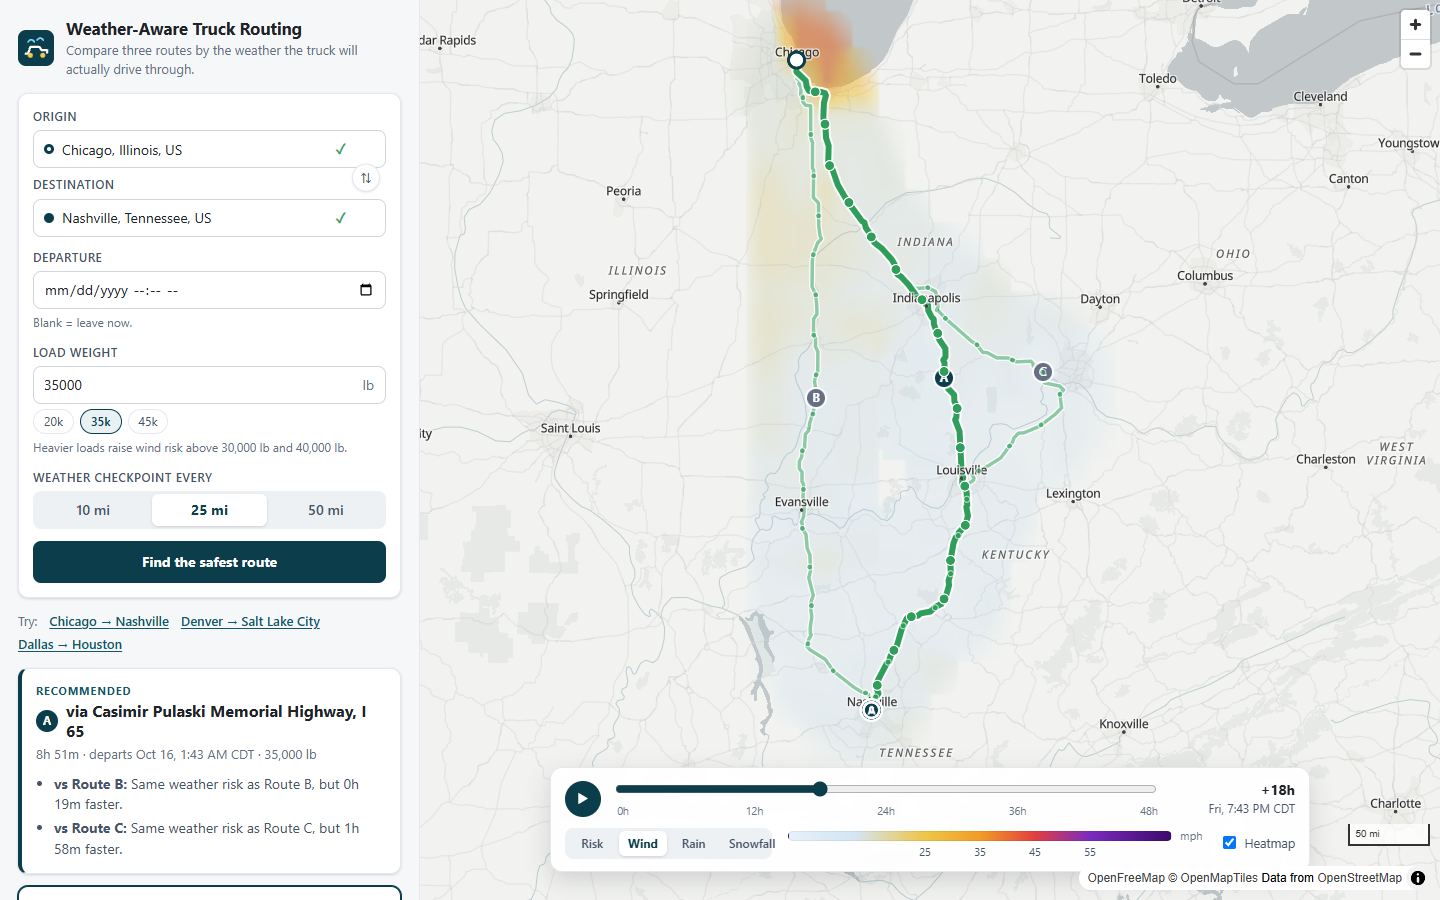
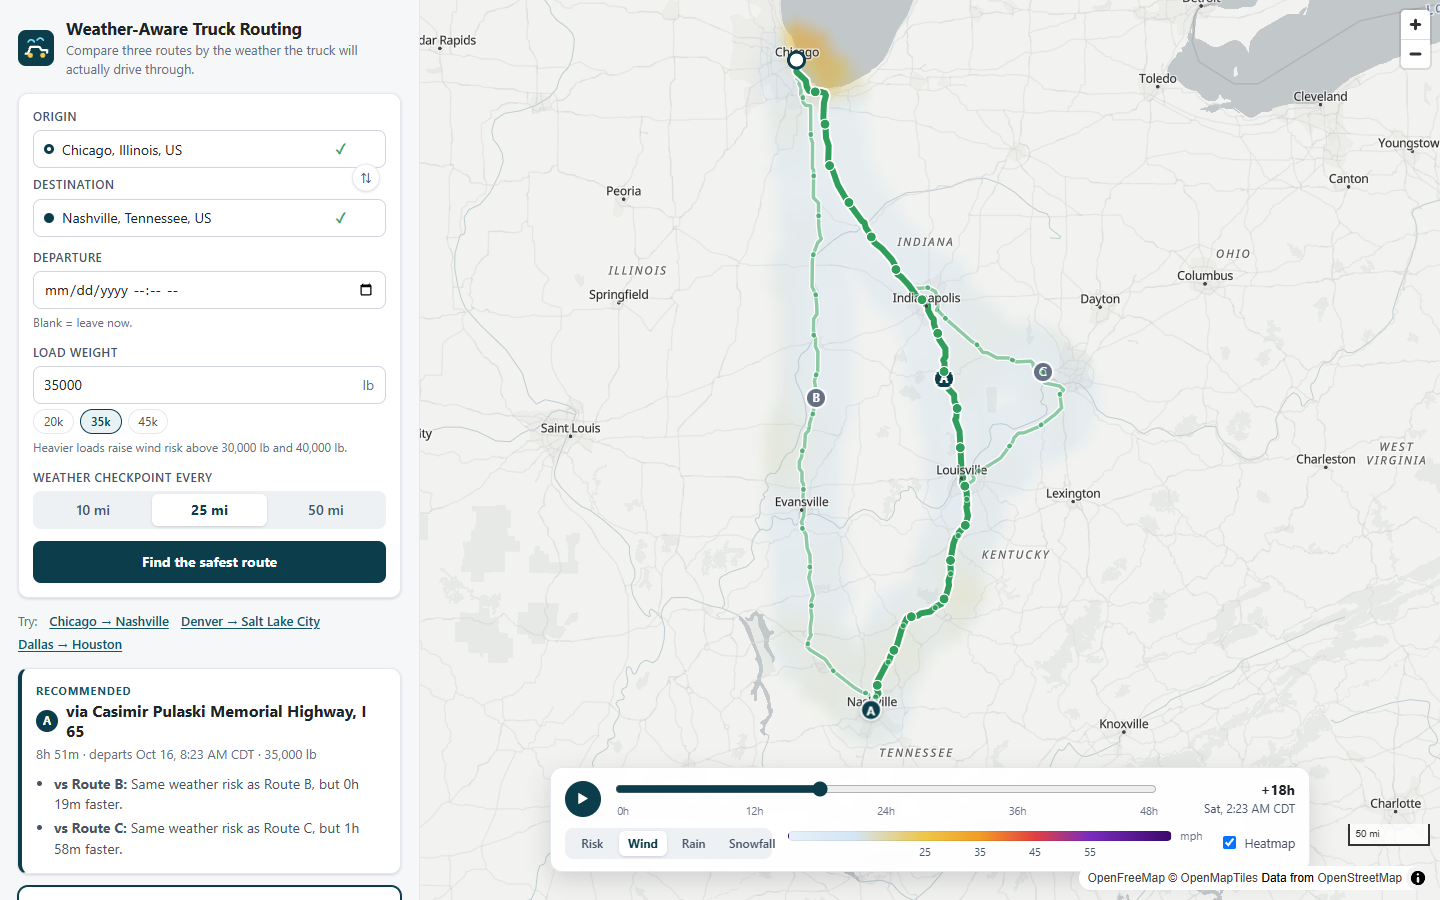
docs: corrected performance report and fresh screenshot
Replaces figures measured while the map was collapsed (28 fps) with
steady-state numbers from a visible, settled map; documents the
measurement mistakes and the guards that now prevent them.

diff --git a/docs/PERFORMANCE.md b/docs/PERFORMANCE.md
@@ -5,14 +5,15 @@
   weather APIs.
 - Changing the load or the departure re-plans in **35–200 ms**, because routes and
   forecasts are cached.
-- Scrubbing the heatmap costs **about 1.5 ms of JavaScript per tick**.
-- Playback holds **about 28 fps on a 2013 dual-core with no GPU driver**. On an ordinary
-  laptop with hardware WebGL it should be considerably smoother, but that was not
-  measured.
+- Scrubbing the heatmap costs **about 2–3 ms of JavaScript per tick**.
 - Memory stays flat during playback.
+- On the test PC, which has **no working GPU driver**, heatmap playback runs at about
+  **10 fps**. That limit comes from Chrome rasterising the map in software: during
+  playback the page's main thread is about 50% idle.
 
-This testing found and fixed eight real bottlenecks. The fixes are listed at the end,
-each with its before/after numbers.
+This testing found and fixed eleven real problems. The fixes are listed at the end,
+each with its before/after numbers. It also caught two measurement mistakes, which are
+described below so the numbers can be trusted.
 
 All scripts live in [`perf/`](../perf/README.md) and can be rerun.
 
@@ -22,7 +23,7 @@ All scripts live in [`perf/`](../perf/README.md) and can be rerun.
 | --- | --- |
 | Upstream APIs | A local mock ([`perf/mock_upstreams.py`](../perf/mock_upstreams.py)) replays **recorded real OSRM responses** and synthesises Open-Meteo forecasts for any coordinates (with a storm, so risk and heatmap have real work to do). Its latency is calibrated to the real services: OSRM 2 s per request; Open-Meteo 0.5 s plus 20 ms per location. This avoids load-testing free public APIs, and makes runs repeatable. |
 | Server | Production settings (`DEBUG=0`) on **waitress** with 16 threads. Waitress stands in for gunicorn, which doesn't run on Windows; both are threaded WSGI servers. |
-| Browser | Headless Chrome via Playwright against the production build. Uses CDP for CPU profiles and heap measurements, and `PerformanceObserver` for paints and long tasks. |
+| Browser | Headless Chrome via Playwright against the production build. Uses CDP for CPU profiles, heap and listener counts, and `PerformanceObserver` for paints and long tasks. The scripts **refuse to report** unless the map canvas is visibly sized, and profiles are taken only after the map has settled. |
 | Trips | Dallas → Houston (240 mi), Chicago → Nashville (470 mi), Denver → Salt Lake City (520 mi), and **Los Angeles → Chicago (2,000 mi)** as a stress case. |
 
 **Test machine:** AMD A6-6400K (2 cores, 2013) with 7 GB RAM on Windows 11.
@@ -30,9 +31,7 @@ All scripts live in [`perf/`](../perf/README.md) and can be rerun.
   session on this PC: the GPU driver isn't in use.
 - Server, mock and browser all share the same two cores.
 
-So treat everything below as a **worst case**. Frame-rate figures in particular are
-limited by software rasterisation: halving the viewport's width and height raised
-playback from 8 to 20 fps before the optimisations below.
+Treat everything below as a **worst case**.
 
 ## Backend
 
@@ -75,26 +74,35 @@ playback from 8 to 20 fps before the optimisations below.
 | Denver → Salt Lake City | 398 → 62 ms | 474 → 259 ms |
 | LA → Chicago | **1,121 → 202 ms** | **1,402 → 364 ms** |
 
-## Frontend (production build)
+## Frontend (production build, 1440×900 viewport)
+
+Median-of-runs figures from `browser_perf.mjs`, against the warm mock backend:
 
 | Metric | Result |
 | --- | --- |
-| JS on first load | 80 KB gzipped for the app; the map library loads separately (286 KB gzipped) |
-| First contentful paint, cold cache (median of 5) | ~690 ms (~780 ms before code-splitting) |
-| Click → routes on screen (server cache warm) | 0.7–1.0 s, of which ~0.2 s is the request |
-| Click → heatmap ready | 2.1–3.2 s |
-| Slider: JS per tick, p50 / p95 | **1.5 / 3.4 ms** (3.9 / 43 ms before) |
-| Slider: input → next frame, p50 | **26 ms** |
-| Playback | **28 fps**, frame p95 61 ms, no long tasks (8 fps / 128 ms before) |
-| Heap after 30 s of playback | Flat (−0.3 to +0.9 MB): no leak |
+| JS on first load | 80 KB gzipped app code; MapLibre (286 KB gzipped) loads in parallel |
+| First contentful paint, cold cache | ~600 ms in the load-only test (784 ms before code-splitting); 750 ms within the full suite |
+| Click → routes on screen | 0.8–0.9 s, of which 0.05–0.2 s is the request |
+| Click → heatmap ready | 3.0–3.3 s; the heatmap request competes with software rendering for CPU |
+| Slider: JS per tick, p50 / p95 | **2.3–2.7 / 27–31 ms** |
+| Slider: input → next frame, p50 | 54–70 ms (dominated by the software-rendered repaint) |
+| Playback | **9.5–9.8 fps**, frame p50 ~115 ms; script CPU 57–61% (7.7–8.1 fps and 79–84% before the playback fixes) |
+| Heap after 30 s of playback | +0.4 MB, flat. DOM listener counts rise and fall back under GC, so nothing leaks. |
 | Layout shift (CLS) | 0 |
 
-Where main-thread time goes during playback, at the start of tuning:
-- **Map drawing (MapLibre):** most of it, plus about 30% native time, which is the
-  software GL renderer.
-- **Our heatmap renderer:** about 12%.
+**Where the playback frame time goes** (`browser_profile.mjs`, steady state, 8 s):
 
-After the fixes, the heatmap renderer is about 5% of main-thread time.
+| Share of main thread | |
+| --- | --- |
+| idle | 53% |
+| native / program (GL command marshalling) | 25% |
+| MapLibre JS | 13% |
+| App code including React | 6% |
+| GC | 3% |
+
+The main thread is idle half the time, so the frame rate is bound by the GPU process's
+software rasteriser, not by JavaScript. With hardware WebGL that rasterisation cost
+largely disappears; how many fps a typical laptop would reach was **not measured here**.
 
 ## What was fixed
 
@@ -105,21 +113,31 @@ After the fixes, the heatmap renderer is about 5% of main-thread time.
 | The route de-duplication check ran a binary search per sample (26k per comparison) | cProfile | Walk the segments once instead | Cold long-haul plan −26% CPU |
 | Detour routes were requested one after another | Cold latency test | Request them in concurrent pairs, judged in a fixed order | Trips needing 2 detours: 7.6 → 5.7 s |
 | The heatmap scored 10k samples through the full `assess()` and lazy settings lookups | cProfile | A level-only function (tested to match `assess()`), with settings read once | Small (~5%) |
-| The heatmap was drawn at 8 px per grid cell | Browser CPU profile | 4 px per cell; the GPU's linear filtering keeps it smooth | Heatmap share of main thread 12% → 5% |
-| The corridor looked blocky (grid-shaped), with a hard edge where data ended | Visual check while tuning | A distance-to-route opacity mask, computed once per heatmap | Smooth band following the roads |
-| The whole bundle had to be parsed before first paint | Load timings | Lazy-load the map chunk | Main JS 353 → 80 KB gzipped; FCP −10–27% |
+| The heatmap was drawn at 8 px per grid cell | Browser CPU profile | 4 px per cell; the GPU's linear filtering keeps it smooth | Paint cost ÷4 |
+| Every playback frame re-painted from the grid | Browser CPU profile | Paint each whole hour once per layer; cross-fade cached images in between | Heatmap dropped out of the top profile entries |
+| `ImageSource.updateImage` re-laid out tiles and fired metadata events on every frame | Reading MapLibre's source while chasing a playback slowdown | Canvas source updated in place (draw, then `play()`/`pause()`) | No per-frame source reloads |
+| The truck layer's `setData` cost a worker round trip, a tile reload and label placement per frame | Listener-churn test | DOM markers | Fewer per-frame jobs; with the two fixes above, playback 8 → 9.7 fps and script CPU 82% → 59% |
+| The corridor looked blocky (grid-shaped), with a hard edge where data ended | Visual check | A distance-to-route opacity mask, computed once per heatmap | Smooth band following the roads |
+| The whole bundle had to be parsed before first paint | Load timings | Lazy-load the map chunk | Main JS 353 → 80 KB gzipped; FCP 784 → ~600 ms |
 
-## Measurement pitfalls found along the way
+**A regression introduced and fixed along the way.** Lazy-loading the map moved
+MapLibre's CSS after ours, and an equally specific rule collapsed the map container to
+zero height. Screenshots caught it. The browser scripts now check that the map is
+visibly sized before reporting anything.
 
+## Measurement mistakes caught (and how they're prevented)
+
+- **Invisible map.** During the collapsed-map regression, playback measured 28 fps and
+  the slider 26 ms. Those numbers were meaningless, because a zero-height map has
+  nothing to draw. The scripts now assert a visible canvas.
+- **Unsettled map.** Profiling right after a plan, while basemap tiles were still
+  arriving, measured about 20 fps against a steady state of about 10. `browser_profile`
+  now warms the HTTP cache and waits for the map to settle.
 - **Windows proxy auto-detection** added about 1.5 s to the first request of every new
-  Chrome profile. The browser scripts launch Chrome with `--no-proxy-server`.
-- **Software WebGL makes everything look slower.** It occupies both cores during map
-  animations, which also slowed the co-located server; one cached re-plan measured
-  1.8 s in-browser against under 0.1 s server-side. End-to-end timings from this
-  machine are pessimistic.
-- **Early runs of this PC's network stalled TLS handshakes** to the public APIs. That's
-  why all load testing uses the mock, and why the backend now has short connect timeouts
-  with retries (see the main README).
+  Chrome profile. The scripts launch Chrome with `--no-proxy-server`.
+- **Shared CPU.** Software WebGL occupies both cores during map animations, which slows
+  the co-located server (e.g. heatmap requests taking 2–3 s in-browser against 1.5 s
+  in the load test). End-to-end timings from this machine are pessimistic.
 
 ## Known limits
 
@@ -131,3 +149,5 @@ After the fixes, the heatmap renderer is about 5% of main-thread time.
   - more processes, sharing a Redis cache;
   - caching the heatmap per (corridor, departure hour, load);
   - moving the scoring loop to NumPy.
+- **No hardware-GPU measurement.** Playback smoothness on typical hardware is
+  expected to be much better than on this test machine, but that hasn't been verified.

diff --git a/README.md b/README.md
@@ -134,14 +134,15 @@ Severe or No Travel miles.
     up with the basemap;
   - opacity from each pixel's distance to the nearest route, computed once per heatmap,
     so the corridor is a smooth band along the roads;
-  - blending between neighbouring hours, so scrubbing and playback are continuous.
-- The pixels are handed directly to MapLibre's image source (`updateImage({image})`):
-  no PNG encoding, no network.
-- Each slider tick costs **about 1.5 ms of JS** in the production build. Sidebar
+  - each whole hour painted once and cached; in-between times cross-fade the two
+    neighbouring hours, so scrubbing and playback are continuous and cheap.
+- The pixels are drawn into a MapLibre canvas source and copied into its texture in
+  place: no PNG encoding, no network, no tile reloads.
+- Each slider tick costs **about 2–3 ms of JS** in the production build. Sidebar
   components are memoised, so only the map, the timeline and the current checkpoint row
   update.
 - The map library is a separate, lazily loaded chunk, so the form paints first.
-- Truck markers on every route move with the slider. Hovering the map shows the value
+- Truck markers (lightweight DOM markers) on every route move with the slider. Hovering the map shows the value
   under the cursor.
 
 ---
@@ -240,9 +241,9 @@ software-only WebGL, so these are worst-case numbers:
 | --- | --- |
 | First plan | ~6 s, dominated by OSRM and the weather API |
 | Re-plan with a new load or departure | 35–200 ms, from cache, with no upstream calls |
-| Slider | ~1.5 ms of JS per tick |
-| Playback | ~28 fps, with flat memory |
-| JS on first load | 80 KB gzipped |
+| Slider | ~2–3 ms of JS per tick |
+| Playback | ~10 fps on this PC, limited by software rasterisation (the main thread is ~50% idle); memory stays flat |
+| JS on first load | 80 KB gzipped app code; the map library loads in parallel |
 
 ## Deployment
 

diff --git a/docs/WALKTHROUGH.md b/docs/WALKTHROUGH.md
@@ -53,7 +53,8 @@ Talking points for the 5–10 minute walkthrough the brief asks for. Times are t
 - Heatmap rendering:
   - the frontend renders the grid itself, with a Mercator correction and bilinear
     interpolation;
-  - pixels go straight to the GPU texture, at about 1.5 ms of JS per frame;
+  - whole hours are painted once and cross-faded, then copied into a canvas-source
+    texture in place, at about 2–3 ms of JS per frame;
   - mention the perf suite: mocked upstreams, profiles, and the fixes in docs/PERFORMANCE.md;
   - the sidebar is memoised, so scrubbing doesn't re-render it.
 - Tests, CI, and a single Docker image serving both the API and the SPA.
